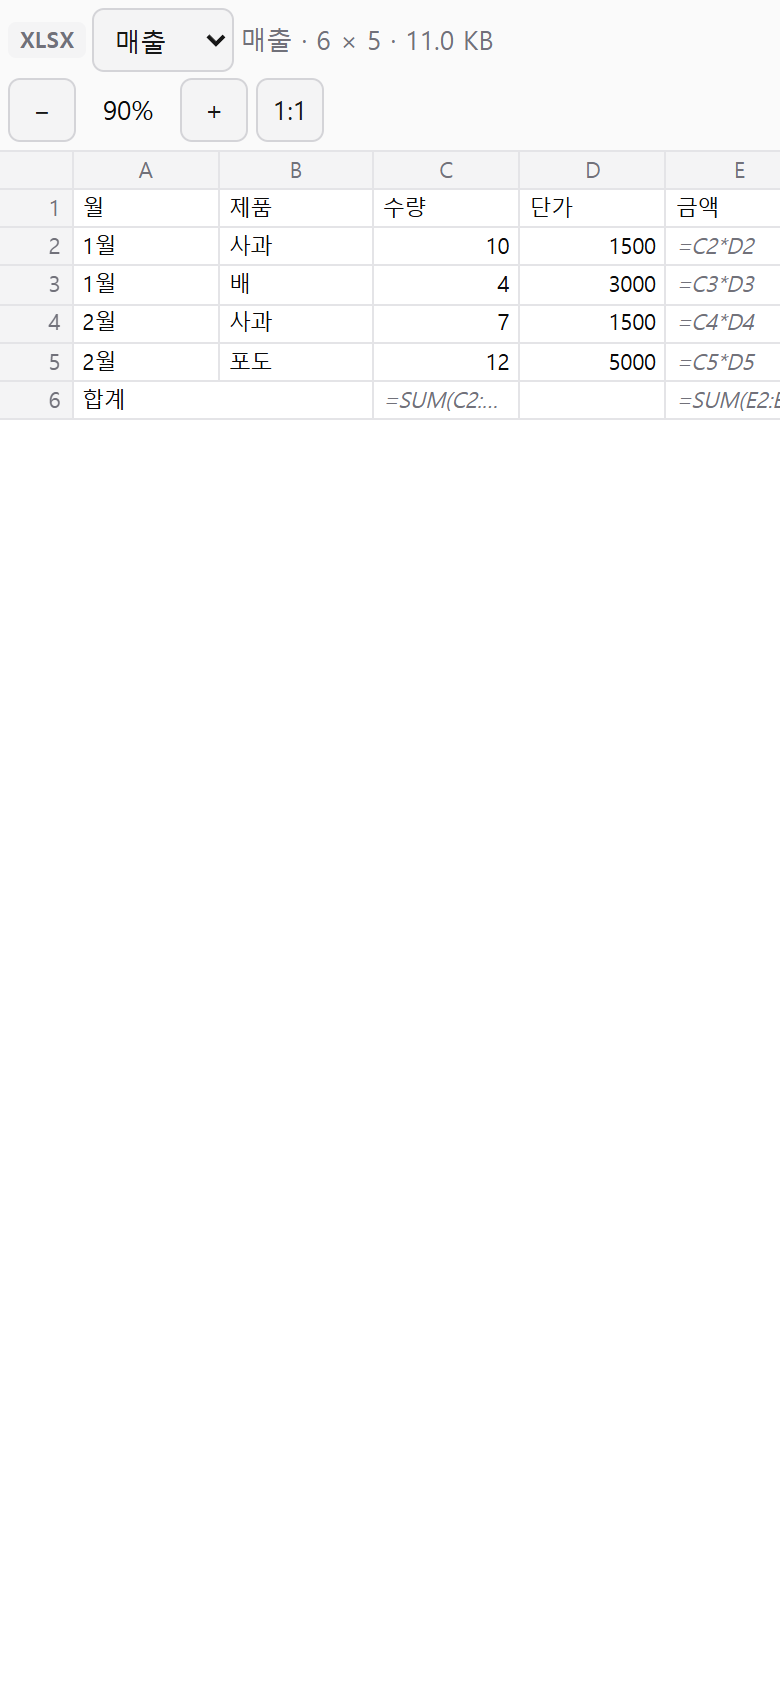
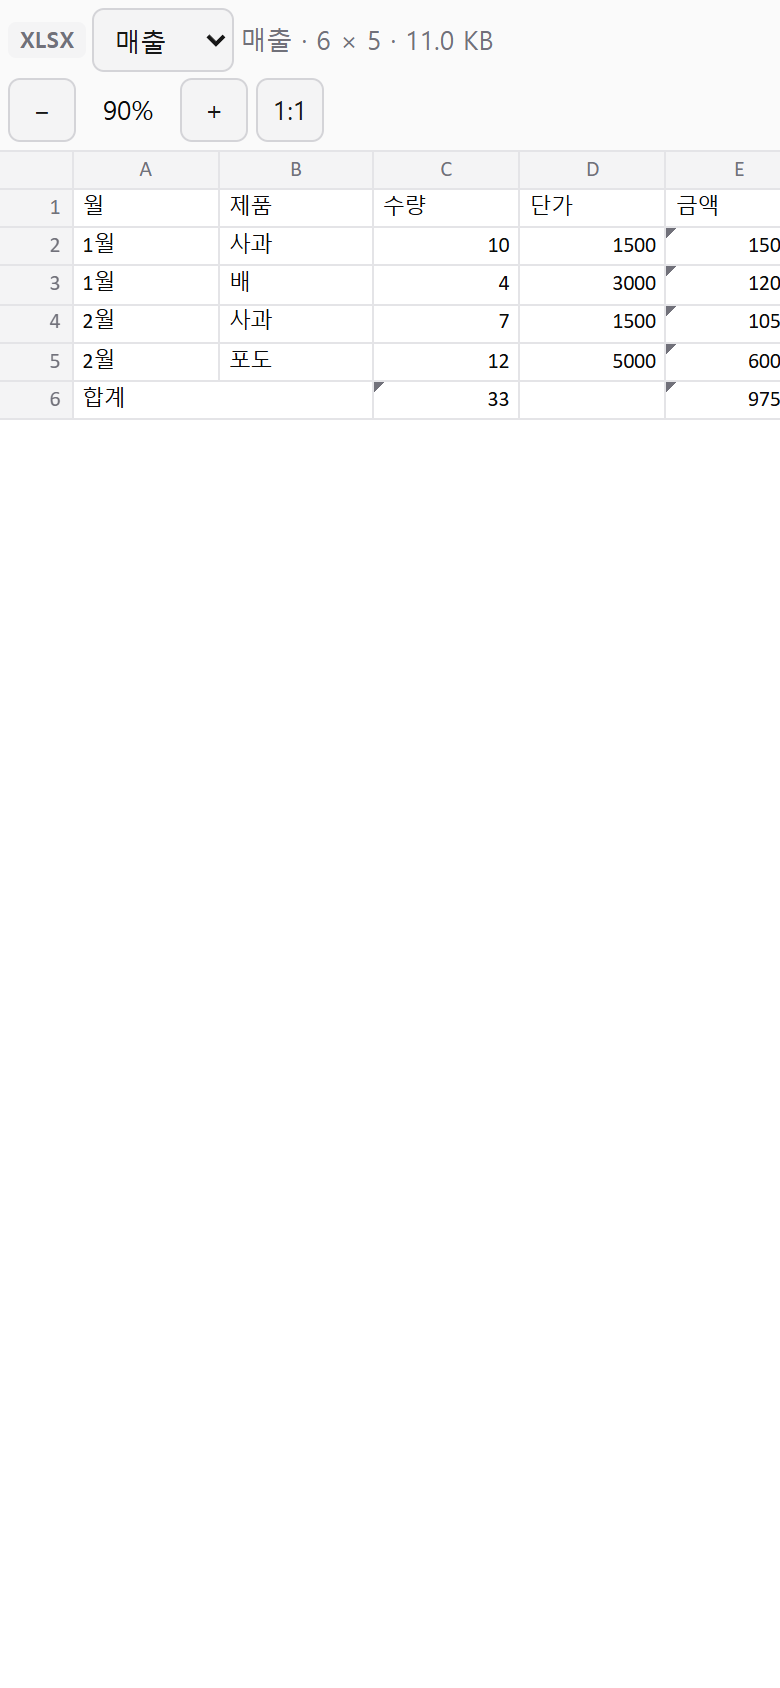
office: round-1 evidence and notes (formulas, fonts)

diff --git a/docs/evidence/office/results.md b/docs/evidence/office/results.md
@@ -1,40 +1,44 @@
 # Harness results
 
-18 / 18 passed · 2026-11-12T03:58:14.438Z
+22 / 22 passed · 2026-11-12T06:09:43.889Z
 
 | Result | Profile | File | State | Time (ms) | Notes |
 | --- | --- | --- | --- | ---: | --- |
-| ✅ | desktop-dark | `broken.docx` | error (expect error) | 815 | console: Failed to load resource: the server responded with a status of 404 (Not Found)<br>console: Error: Corrupted zip: can't find end of central directory
-    at f.readEndOfCentral (http://127.0.0.1:8664/vendor/docx.js:2:32683)
-    at f.load (http:<br>console: PreviewError: docx
-    at Module.render (http://127.0.0.1:8664/editor/renderers/docx.ts:52:11)
-    at async show (http://127.0.0.1:8664/editor/main.ts: |
-| ✅ | desktop-dark | `broken.pptx` | error (expect error) | 783 | console: Error: invalid zip data
-    at Lr (http://127.0.0.1:8664/vendor/zip.js:1:5079)
-    at OoxmlPackage.open (http://127.0.0.1:8664/editor/renderers/office/<br>console: PreviewError: pptx
-    at Module.render (http://127.0.0.1:8664/editor/renderers/pptx.ts:44:11)
-    at show (http://127.0.0.1:8664/editor/main.ts:76:25) |
-| ✅ | desktop-dark | `sample-large.xlsx` | ready (expect ready) | 1044 |  |
-| ✅ | desktop-dark | `sample-shapes.pptx` | ready (expect ready) | 748 |  |
-| ✅ | desktop-dark | `sample.docx` | ready (expect ready) | 833 |  |
-| ✅ | desktop-dark | `sample.ods` | ready (expect ready) | 937 |  |
-| ✅ | desktop-dark | `sample.pptx` | ready (expect ready) | 740 |  |
-| ✅ | desktop-dark | `sample.xls` | ready (expect ready) | 774 |  |
-| ✅ | desktop-dark | `sample.xlsx` | ready (expect ready) | 782 |  |
-| ✅ | mobile-light | `broken.docx` | error (expect error) | 696 | console: Error: Corrupted zip: can't find end of central directory
-    at f.readEndOfCentral (http://127.0.0.1:8664/vendor/docx.js:2:32683)
-    at f.load (http:<br>console: PreviewError: docx
-    at Module.render (http://127.0.0.1:8664/editor/renderers/docx.ts:52:11)
-    at async show (http://127.0.0.1:8664/editor/main.ts: |
-| ✅ | mobile-light | `broken.pptx` | error (expect error) | 791 | console: Error: invalid zip data
-    at Lr (http://127.0.0.1:8664/vendor/zip.js:1:5079)
-    at OoxmlPackage.open (http://127.0.0.1:8664/editor/renderers/office/<br>console: PreviewError: pptx
-    at Module.render (http://127.0.0.1:8664/editor/renderers/pptx.ts:44:11)
-    at show (http://127.0.0.1:8664/editor/main.ts:76:25) |
-| ✅ | mobile-light | `sample-large.xlsx` | ready (expect ready) | 1058 |  |
-| ✅ | mobile-light | `sample-shapes.pptx` | ready (expect ready) | 780 |  |
-| ✅ | mobile-light | `sample.docx` | ready (expect ready) | 1207 |  |
-| ✅ | mobile-light | `sample.ods` | ready (expect ready) | 853 |  |
-| ✅ | mobile-light | `sample.pptx` | ready (expect ready) | 703 |  |
-| ✅ | mobile-light | `sample.xls` | ready (expect ready) | 766 |  |
-| ✅ | mobile-light | `sample.xlsx` | ready (expect ready) | 772 |  |
+| ✅ | desktop-dark | `broken.docx` | error (expect error) | 992 | console: Failed to load resource: the server responded with a status of 404 (Not Found)<br>console: Error: Corrupted zip: can't find end of central directory
+    at f.readEndOfCentral (http://127.0.0.1:5545/plugin/vendor/docx.js:2:32683)
+    at f.load<br>console: PreviewError: docx
+    at Module.render (http://127.0.0.1:5545/plugin/editor/renderers/docx.ts:54:11)
+    at async show (http://127.0.0.1:5545/plugin/e |
+| ✅ | desktop-dark | `broken.pptx` | error (expect error) | 699 | console: Error: invalid zip data
+    at Lr (http://127.0.0.1:5545/plugin/vendor/zip.js:1:5079)
+    at OoxmlPackage.open (http://127.0.0.1:5545/plugin/editor/ren<br>console: PreviewError: pptx
+    at Module.render (http://127.0.0.1:5545/plugin/editor/renderers/pptx.ts:45:11)
+    at show (http://127.0.0.1:5545/plugin/editor/ |
+| ✅ | desktop-dark | `sample-docx.doc` | ready (expect ready) | 821 |  |
+| ✅ | desktop-dark | `sample-large.xlsx` | ready (expect ready) | 1012 |  |
+| ✅ | desktop-dark | `sample-pptx.ppt` | ready (expect ready) | 732 |  |
+| ✅ | desktop-dark | `sample-shapes.pptx` | ready (expect ready) | 750 |  |
+| ✅ | desktop-dark | `sample.docx` | ready (expect ready) | 824 |  |
+| ✅ | desktop-dark | `sample.ods` | ready (expect ready) | 763 |  |
+| ✅ | desktop-dark | `sample.pptx` | ready (expect ready) | 702 |  |
+| ✅ | desktop-dark | `sample.xls` | ready (expect ready) | 751 |  |
+| ✅ | desktop-dark | `sample.xlsx` | ready (expect ready) | 753 |  |
+| ✅ | mobile-light | `broken.docx` | error (expect error) | 681 | console: Error: Corrupted zip: can't find end of central directory
+    at f.readEndOfCentral (http://127.0.0.1:5545/plugin/vendor/docx.js:2:32683)
+    at f.load<br>console: PreviewError: docx
+    at Module.render (http://127.0.0.1:5545/plugin/editor/renderers/docx.ts:54:11)
+    at async show (http://127.0.0.1:5545/plugin/e |
+| ✅ | mobile-light | `broken.pptx` | error (expect error) | 680 | console: Error: invalid zip data
+    at Lr (http://127.0.0.1:5545/plugin/vendor/zip.js:1:5079)
+    at OoxmlPackage.open (http://127.0.0.1:5545/plugin/editor/ren<br>console: PreviewError: pptx
+    at Module.render (http://127.0.0.1:5545/plugin/editor/renderers/pptx.ts:45:11)
+    at show (http://127.0.0.1:5545/plugin/editor/ |
+| ✅ | mobile-light | `sample-docx.doc` | ready (expect ready) | 812 |  |
+| ✅ | mobile-light | `sample-large.xlsx` | ready (expect ready) | 972 |  |
+| ✅ | mobile-light | `sample-pptx.ppt` | ready (expect ready) | 727 |  |
+| ✅ | mobile-light | `sample-shapes.pptx` | ready (expect ready) | 741 |  |
+| ✅ | mobile-light | `sample.docx` | ready (expect ready) | 803 |  |
+| ✅ | mobile-light | `sample.ods` | ready (expect ready) | 748 |  |
+| ✅ | mobile-light | `sample.pptx` | ready (expect ready) | 713 |  |
+| ✅ | mobile-light | `sample.xls` | ready (expect ready) | 729 |  |
+| ✅ | mobile-light | `sample.xlsx` | ready (expect ready) | 758 |  |

diff --git a/docs/evidence/office/NOTES.md b/docs/evidence/office/NOTES.md
@@ -1,7 +1,7 @@
 # Office (OOXML) renderers — evidence notes
 
 Harness: `node tools/harness/run.mjs --out docs/evidence/office --only docx,pptx,xls,ods --profiles desktop-dark,mobile-light`
-→ **18 / 18 passed** (see `results.md`). `interact-*.png` come from an extra ad-hoc Playwright pass
+→ **22 / 22 passed** after round 1 (the filter now also matches the legacy fixtures `sample-docx.doc` and `sample-pptx.ppt` from master) (see `results.md`). `interact-*.png` come from an extra ad-hoc Playwright pass
 (notes toggle + next slide, second sheet, scroll to the end of a 6,000-row sheet).
 
 ## What was built
@@ -55,7 +55,7 @@ contains `new Function`, on a path taken only when a string (not a function) is 
 - Sheet picker (`toolbar.select`, hidden sheets labelled), info `sheet · rows × cols · size`.
 - Grid with column letters and row numbers, both sticky; column widths from `!cols`, row heights / hidden rows from `!rows`.
 - Merged cells → `colspan`/`rowspan`; formatted values from `cell.w`; numbers/dates right-aligned, booleans and
-  errors centred; formulas saved without a cached result show as `=SUM(C2:C5)` in muted italics.
+  errors centred; formulas saved without a cached result are calculated by `office/formula.ts` (round 1, below).
 - Progressive rendering: 300 rows per chunk appended on scroll, capped at **5,000 rows × 200 columns** with a notice.
 - Zoom (CSS zoom on the table, 25–400 %, starts at 90 % on phones) with Ctrl+wheel / pinch.
 
@@ -84,3 +84,47 @@ contains `new Function`, on a path taken only when a string (not a function) is 
 | `sample.xls` | BIFF8 via LibreOffice, cached formula results | PASS | PASS |
 | `sample.ods` (new) | OpenDocument spreadsheet (converted from sample.xls by SheetJS) | PASS | PASS |
 | `sample-large.xlsx` (new) | 6,001 × 12 sheet (row cap notice) and a 5 × 250 sheet (column cap notice) | PASS | PASS |
+
+## Round 1 fixes
+
+### R1-2 Formula cells without a cached value
+- New `plugin/editor/renderers/office/formula.ts`: tokenizer + recursive-descent parser + interpreter
+  (no `eval`/`Function`). Numbers, strings, TRUE/FALSE, refs `A1`, `$A$1`, `Sheet!A1`, `'Sheet name'!A1`
+  (Korean sheet names too), ranges, `+ - * / ^ &`, unary `-`, postfix `%`, `= <> < > <= >=`, parentheses;
+  SUM, AVERAGE, MIN, MAX, COUNT, COUNTA, IF, ROUND (half away from zero), ABS, AND, OR, NOT, CONCAT
+  (also `_xlfn.CONCAT`), CONCATENATE, LEN, UPPER, LOWER. Excel-style coercion and ordering;
+  `#DIV/0!` / `#VALUE!` / `#NUM!` are results, not failures.
+- Referenced formula cells are evaluated recursively, memoized per workbook, with a cycle guard and a
+  depth limit of 64; ranges over 200,000 cells are refused.
+- Used only when a cell has `f` but no value (`t: 'z'`). A calculated cell gets a small corner marker and the
+  tooltip "미리보기에서 계산됨 / Calculated by the preview: =C2*D2"; numbers use the cell's number format (SSF)
+  or Excel "General". Anything unsupported (other functions, whole-column refs, names, arrays, empty args)
+  keeps the formula text in muted italics with the tooltip "Formula not calculated (no saved result)".
+- `sample.xlsx` (openpyxl, no cached values) now shows E2..E5 = 15000/12000/10500/60000, C6 = 33,
+  E6 = 97500, identical to `sample.xls`, which LibreOffice saved with results.
+- Unit tests: `formula.test.ts` (9 tests) and `fonts.test.ts` (3 tests). `orca plugin test` on a copy of
+  `plugin/` on C: → 17/17 pass (including the existing encoding tests).
+
+### R1-3 Office font fallback
+- New `plugin/editor/renderers/office/fonts.ts`: `installOfficeFonts()` adds `@font-face` aliases to
+  `document.head` (not the shadow root) for Calibri, Calibri Light, Aptos, Arial/Helvetica, Segoe UI/Tahoma/Verdana,
+  Cambria, Times New Roman, Georgia/Garamond family, Courier New, Consolas, 맑은 고딕/Malgun Gothic, 굴림/Gulim,
+  돋움/Dotum, 나눔고딕, 바탕/Batang, 궁서/Gungsuh, 나눔명조, 함초롬바탕/돋움. Each maps to `local()` candidates,
+  real font first, e.g. Calibri → Calibri, Carlito, Segoe UI, Helvetica Neue, Helvetica, Arial, Liberation Sans,
+  Roboto…; Cambria → Cambria, Caladea, Georgia, Times New Roman…; 맑은 고딕 → Malgun Gothic, Apple SD Gothic Neo,
+  Noto Sans KR, NanumGothic; 바탕 → Batang, AppleMyungjo, Noto Serif KR, NanumMyeongjo. Regular (100–599) and
+  bold (600–900) faces are declared separately; italics are synthesized.
+- DOCX: every `font-family` in docx-preview's generated CSS and inline styles gets a generic sans/serif chain
+  appended (`patchCssFonts` / `withFallback`), and the paper root has a sans chain, so an unknown font never
+  drops to the browser's default serif. Verified in Chrome: the Calibri/Cambria faces report `loaded` and the
+  run "Mixed bold, italic…" computes to `Cambria, "Segoe UI", …, sans-serif`.
+- PPTX: slide text uses the same `withFallback` chain after the theme/latin/ea fonts. Sheets: the grid uses
+  `Calibri, "맑은 고딕"` + the sans chain (Excel's defaults).
+- Note: `sample.docx` (python-docx default template) sets its body text to **Cambria** (theme minor font), so
+  that paragraph is meant to be serif, as in Word; on devices without Cambria it now renders in Caladea/Georgia/Times
+  rather than the browser's default font. Headings use Calibri → sans.
+
+### Changed files (round 1)
+`plugin/editor/renderers/office/{formula,formula.test,fonts,fonts.test}.ts` (new), `sheet.ts`, `docx.ts`,
+`pptx.ts`, `office/slides.ts`, `plugin/vendor/sheet.d.ts` (adds `SSF.format` and `CellObject.z`; the bundle
+already exported SSF, so `npm run vendor` was not needed). No shared core files changed.
